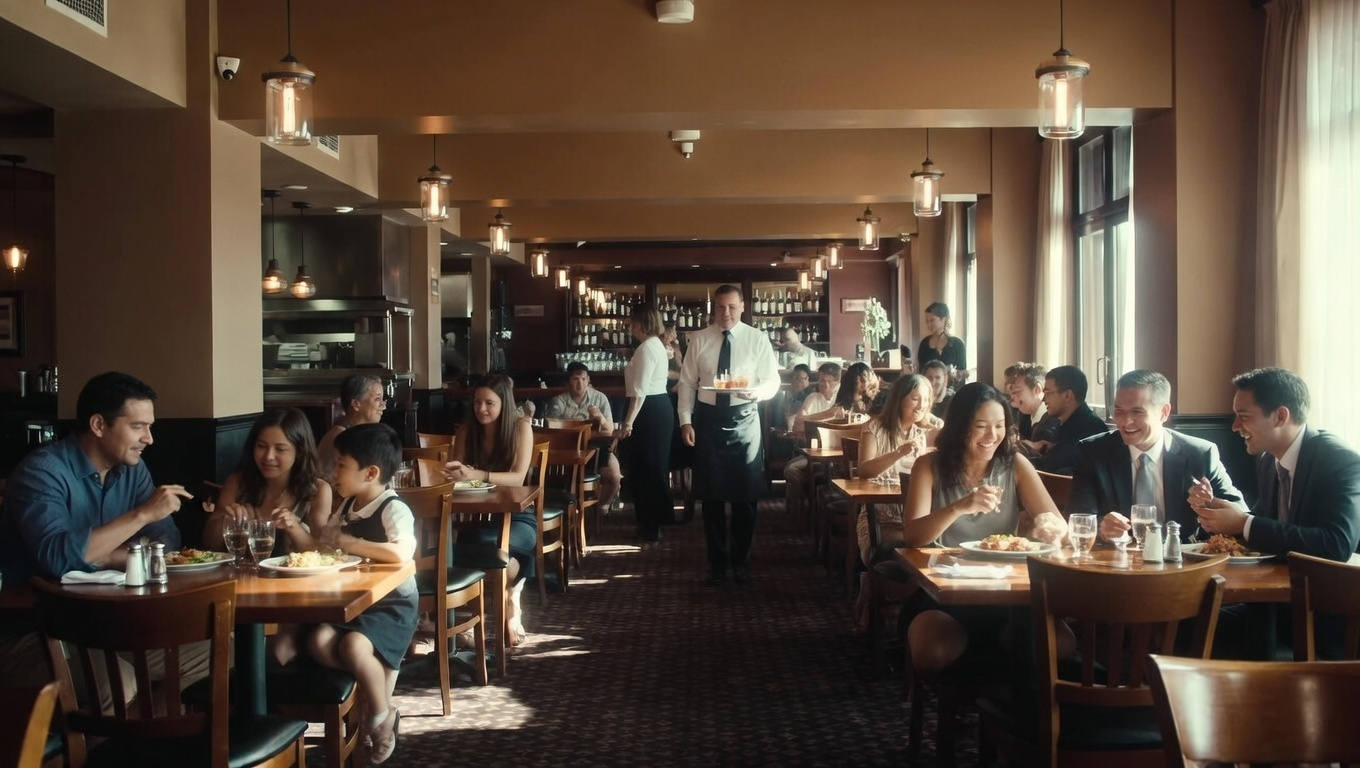
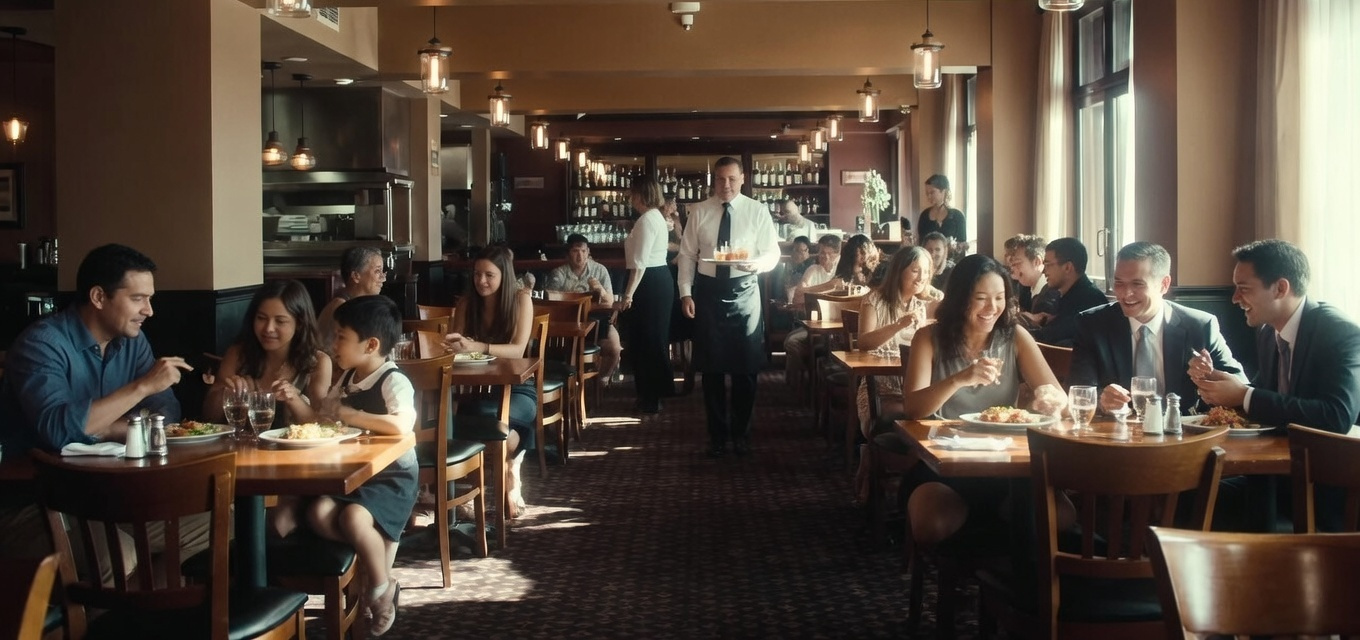
update

diff --git a/index.html b/index.html
@@ -196,7 +196,7 @@
 
         <div class="row gy-4 align-items-stretch justify-content-between features-item ">
           <div class="col-lg-6 d-flex align-items-center features-img-bg" data-aos="zoom-out">
-            <img src="assets/img/restaurant.jpg" class="img-fluid" alt="">
+            <img src="assets/img/restaurant.jpg?v=1" class="img-fluid" alt="">
           </div>
           <div class="col-lg-5 d-flex justify-content-center flex-column" data-aos="fade-up">
             <h3>Restorani</h3>
